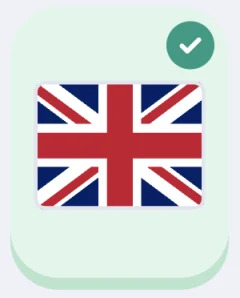
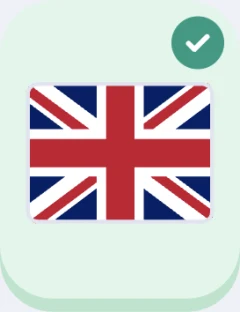
site: give the deck tiles more contrast
The deck tiles are now white on the page, and each shows its pair on a
panel in the deck's colour. The cards are cropped to their own edges,
so no grey corners show around them.

diff --git a/assets/site.css b/assets/site.css
@@ -21,11 +21,11 @@
   --line: #DCE0EE;
   --edge: #D6D9EA;
   --shadow: 31, 35, 64;
-  --tint-flags: #E3EEFB;
-  --tint-landmarks: #F5EDDD;
-  --tint-art: #F4E5EC;
-  --tint-math: #DFF3EA;
-  --tint-more: #ECEAFB;
+  --tint-flags: #CFE1F8;
+  --tint-landmarks: #F1E0C2;
+  --tint-art: #F0D5E1;
+  --tint-math: #CBEBDC;
+  --tint-more: #DEDBF8;
   --tag: #FDE7DA;
   --tag-ink: #8A3A0B;
   --radius: 24px;
@@ -68,8 +68,9 @@ main { overflow-wrap: break-word; max-width: 1120px; margin: 0 auto; padding: 0 
 .phone img { display: block; width: 100%; border-radius: 26px; }
 
 /* A pair of cards, enlarged: card = card */
-.pair { display: inline-flex; align-items: center; gap: 12px; background: var(--surface); border-radius: var(--radius); padding: 14px 16px; box-shadow: 0 5px 0 var(--edge), 0 22px 44px rgba(var(--shadow), 0.18); }
-.pair img { display: block; width: 96px; border-radius: 18px; }
+.pair { display: inline-flex; align-items: center; gap: 12px; background: #EFF1F7; border-radius: var(--radius); padding: 14px 16px; box-shadow: 0 5px 0 var(--edge), 0 22px 44px rgba(var(--shadow), 0.18); }
+.pair img { display: block; width: 96px; border-radius: 18% / 14%; }
+.pair img.sq { border-radius: 17%; }
 .pair .eq { font-size: 34px; font-weight: 900; color: var(--accent); line-height: 1; }
 
 /* Hero */
@@ -89,24 +90,28 @@ h2 { font-size: clamp(32px, 4vw, 44px); font-weight: 900; letter-spacing: -0.8px
 .section-lead { color: var(--ink-soft); font-size: 21px; margin: 0 0 32px; max-width: 52ch; }
 .tag { display: inline-block; vertical-align: 2px; margin-left: 6px; padding: 1px 9px; border-radius: 999px; background: var(--tag); color: var(--tag-ink); font-size: 13px; font-weight: 900; letter-spacing: 0.5px; }
 
-/* Decks: five tiles, the Flags tile spans two rows */
-.decks { display: grid; grid-template-columns: 1.2fr 1fr 1fr; grid-template-rows: auto auto; gap: 18px; }
-.deck { border-radius: var(--radius); padding: 26px; display: flex; flex-direction: column; gap: 18px; }
+/* Decks: five white tiles, the Flags tile spans two rows. Each tile
+   shows its pair on a panel in the deck's colour. */
+.decks { display: grid; grid-template-columns: 1.2fr 1fr 1fr; grid-template-rows: auto auto; gap: 20px; }
+.deck { background: var(--surface); border-radius: var(--radius); padding: 12px 12px 24px; display: flex; flex-direction: column; gap: 18px; box-shadow: 0 5px 0 var(--edge), 0 18px 36px rgba(var(--shadow), 0.08); }
+.deck .stage { border-radius: 18px; padding: 26px 16px; display: flex; align-items: center; justify-content: center; }
+.deck .info { padding: 0 14px; }
 .deck h3 { margin: 0; font-size: 22px; font-weight: 900; }
 .deck p { margin: 4px 0 0; color: var(--ink-soft); font-size: 17px; }
-.deck .pair { align-self: flex-start; box-shadow: 0 4px 0 rgba(var(--shadow), 0.08); }
-.deck .pair img { width: 84px; border-radius: 16px; }
-.deck-flags { background: var(--tint-flags); grid-row: span 2; justify-content: space-between; }
-.deck-flags .pair { align-self: center; margin: auto 0; }
-.deck-flags .pair img { width: 140px; }
-.deck-landmarks { background: var(--tint-landmarks); }
-.deck-art { background: var(--tint-art); }
-.deck-math { background: var(--tint-math); }
-.deck-more { background: var(--tint-more); justify-content: space-between; }
-.deck-more ul { display: flex; flex-wrap: wrap; gap: 10px; margin: 0; padding: 0; list-style: none; }
+.deck .pair { box-shadow: 0 4px 0 rgba(var(--shadow), 0.10); }
+.deck .pair img { width: 84px; }
+.deck-flags { grid-row: span 2; }
+.deck-flags .stage { flex: 1; }
+.deck-flags .pair img { width: 132px; }
+.deck-flags .stage { background: var(--tint-flags); }
+.deck-landmarks .stage { background: var(--tint-landmarks); }
+.deck-art .stage { background: var(--tint-art); }
+.deck-math .stage { background: var(--tint-math); }
+.deck-more .stage { background: var(--tint-more); flex: 1; }
+.deck-more ul { display: flex; flex-wrap: wrap; justify-content: center; gap: 10px; margin: 0; padding: 0; list-style: none; }
+.deck-more li { background: var(--surface); border-radius: 999px; padding: 9px 18px; font-weight: 900; font-size: 17px; box-shadow: 0 3px 0 rgba(var(--shadow), 0.12); }
 .deck-more .tag { margin: 0 2px; }
-.deck-more li { background: var(--surface); border-radius: 999px; padding: 8px 16px; font-weight: 900; font-size: 16px; box-shadow: 0 3px 0 rgba(var(--shadow), 0.08); }
-.deck-note { color: var(--ink-soft); font-size: 17px; margin: 18px 0 0; }
+.deck-note { color: var(--ink-soft); font-size: 17px; margin: 22px 0 0; }
 
 /* Text beside a phone */
 .split { display: grid; grid-template-columns: 1fr 1fr; gap: 64px; align-items: center; }
@@ -171,6 +176,7 @@ footer .copy { margin-left: auto; }
   .hero-art .pair { left: -40px; bottom: 80px; }
   .decks { grid-template-columns: 1fr 1fr; }
   .deck-flags { grid-row: auto; grid-column: span 2; }
+  .deck-more { grid-column: span 2; }
   .plans, .facts { grid-template-columns: 1fr; }
   .facts { gap: 0; }
   .art .editor-card { left: -40px; width: 250px; }

diff --git a/index.html b/index.html
@@ -182,7 +182,7 @@
     </div>
     <div class="hero-art">
       <div class="phone"><img src="assets/screens/board.webp" width="660" height="1434" alt="A Pairsley board in play: some pairs of shapes are found, the rest of the cards are face down." fetchpriority="high"></div>
-      <div class="pair" aria-hidden="true"><img src="assets/cards/flag-uk.webp" width="240" height="298" alt=""><span class="eq">=</span><img src="assets/cards/name-uk.webp" width="240" height="298" alt=""></div>
+      <div class="pair" aria-hidden="true"><img src="assets/cards/flag-uk.webp" width="240" height="312" alt=""><span class="eq">=</span><img src="assets/cards/name-uk.webp" width="240" height="312" alt=""></div>
     </div>
   </div>
 
@@ -191,43 +191,39 @@
     <p class="section-lead">Math calculations and much more. Many decks match by meaning: a flag finds its country, a painting finds its painter.</p>
     <div class="decks">
       <div class="deck deck-flags">
-        <div>
+        <div class="stage"><div class="pair"><img src="assets/cards/flag-uk.webp" width="240" height="312" alt="The flag of the United Kingdom"><span class="eq" aria-label="matches">=</span><img src="assets/cards/name-uk.webp" width="240" height="312" alt="The words United Kingdom"></div></div>
+        <div class="info">
           <h3>Flags <span class="tag">PRO</span></h3>
           <p>92 countries. Each flag finds its name, and in sets of three, its capital too.</p>
         </div>
-        <div class="pair"><img src="assets/cards/flag-uk.webp" width="240" height="298" alt="The flag of the United Kingdom"><span class="eq" aria-label="matches">=</span><img src="assets/cards/name-uk.webp" width="240" height="298" alt="The words United Kingdom"></div>
       </div>
       <div class="deck deck-landmarks">
-        <div class="pair"><img src="assets/cards/colosseum.webp" width="240" height="298" alt="The Colosseum"><span class="eq" aria-label="matches">=</span><img src="assets/cards/flag-italy.webp" width="240" height="298" alt="The flag of Italy"></div>
-        <div>
+        <div class="stage"><div class="pair"><img src="assets/cards/colosseum.webp" width="240" height="312" alt="The Colosseum"><span class="eq" aria-label="matches">=</span><img src="assets/cards/flag-italy.webp" width="240" height="312" alt="The flag of Italy"></div></div>
+        <div class="info">
           <h3>Landmarks <span class="tag">PRO</span></h3>
           <p>30 landmarks drawn for Pairsley, each with its country's flag.</p>
         </div>
       </div>
       <div class="deck deck-art">
-        <div class="pair"><img src="assets/cards/starry.webp" width="240" height="298" alt="The Starry Night"><span class="eq" aria-label="matches">=</span><img src="assets/cards/vangogh.webp" width="240" height="298" alt="The words Vincent van Gogh"></div>
-        <div>
+        <div class="stage"><div class="pair"><img src="assets/cards/starry.webp" width="240" height="312" alt="The Starry Night"><span class="eq" aria-label="matches">=</span><img src="assets/cards/vangogh.webp" width="240" height="312" alt="The words Vincent van Gogh"></div></div>
+        <div class="info">
           <h3>Masterpieces <span class="tag">PRO</span></h3>
           <p>30 famous paintings and the painters who made them.</p>
         </div>
       </div>
       <div class="deck deck-math">
-        <div class="pair"><img src="assets/cards/sum75.webp" width="240" height="240" alt="The sum 7 plus 5"><span class="eq" aria-label="matches">=</span><img src="assets/cards/n12.webp" width="240" height="240" alt="The number 12"></div>
-        <div>
+        <div class="stage"><div class="pair"><img class="sq" src="assets/cards/sum75.webp" width="240" height="242" alt="The sum 7 plus 5"><span class="eq" aria-label="matches">=</span><img class="sq" src="assets/cards/n12.webp" width="240" height="242" alt="The number 12"></div></div>
+        <div class="info">
           <h3>Math <span class="tag">PRO</span></h3>
           <p>A sum finds its answer.</p>
         </div>
       </div>
       <div class="deck deck-more">
-        <div>
-          <h3>And more</h3>
-          <p>Together <span class="tag">PRO</span> pairs things that belong together, like a key and a lock. Three classic decks are free:</p>
+        <div class="stage"><ul aria-label="Free decks"><li>Shapes</li><li>Colors</li><li>Numbers</li></ul></div>
+        <div class="info">
+          <h3>Free decks and more</h3>
+          <p>Shapes, Colors and Numbers are free. Together <span class="tag">PRO</span> pairs things that belong together, like a key and a lock.</p>
         </div>
-        <ul aria-label="Free decks">
-          <li>Shapes</li>
-          <li>Colors</li>
-          <li>Numbers</li>
-        </ul>
       </div>
     </div>
     <p class="deck-note">Try any Pro deck for 24 hours after a short ad.</p>
